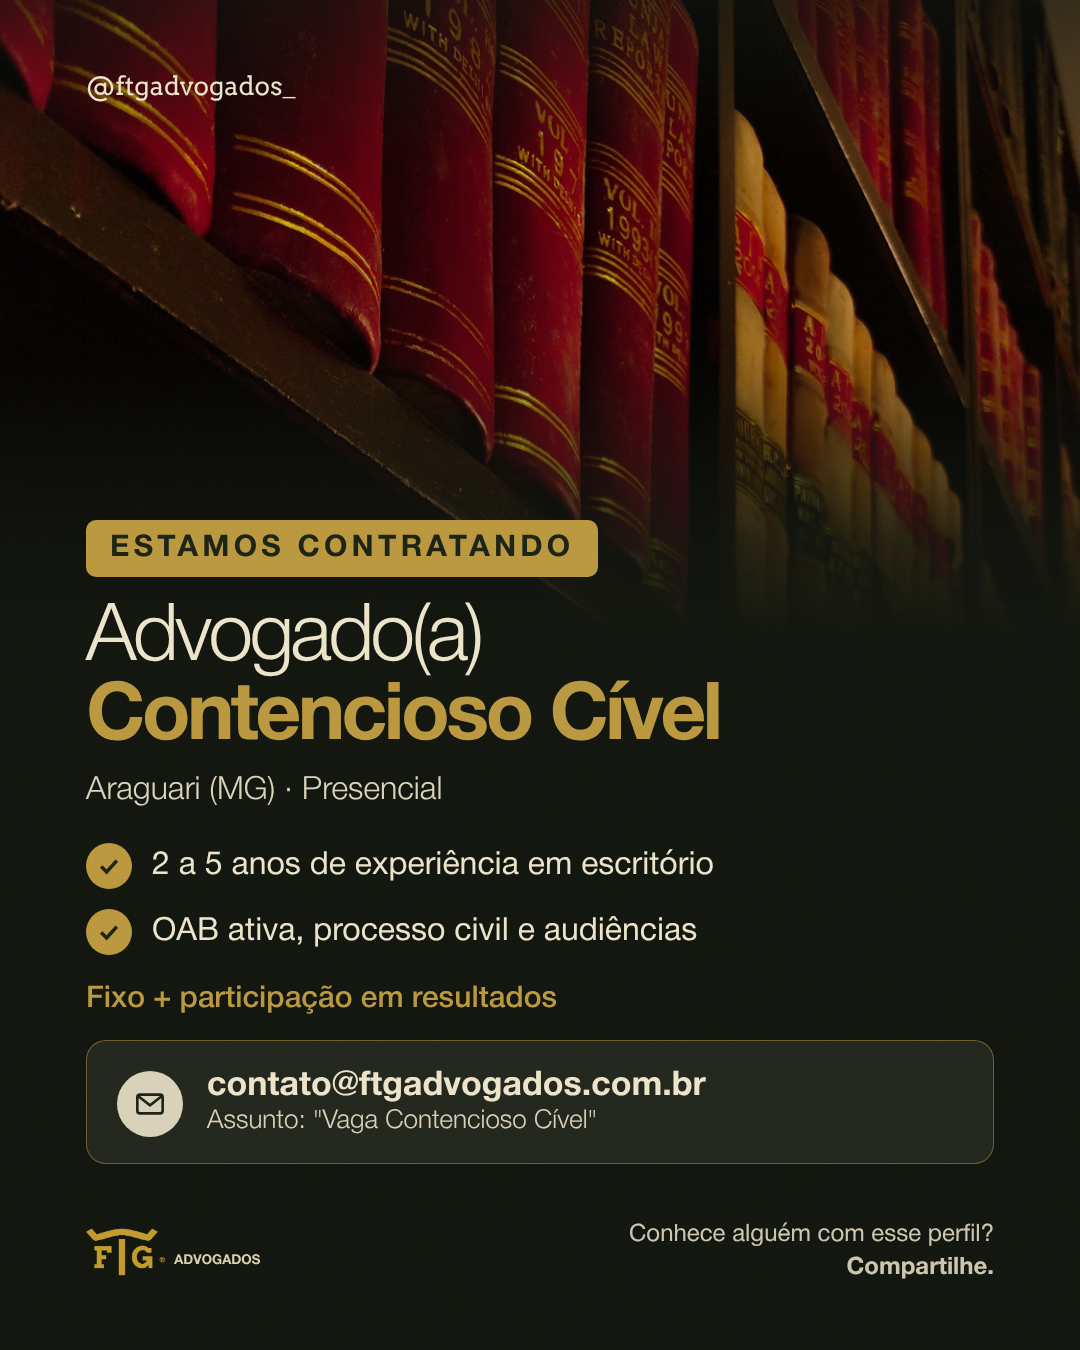
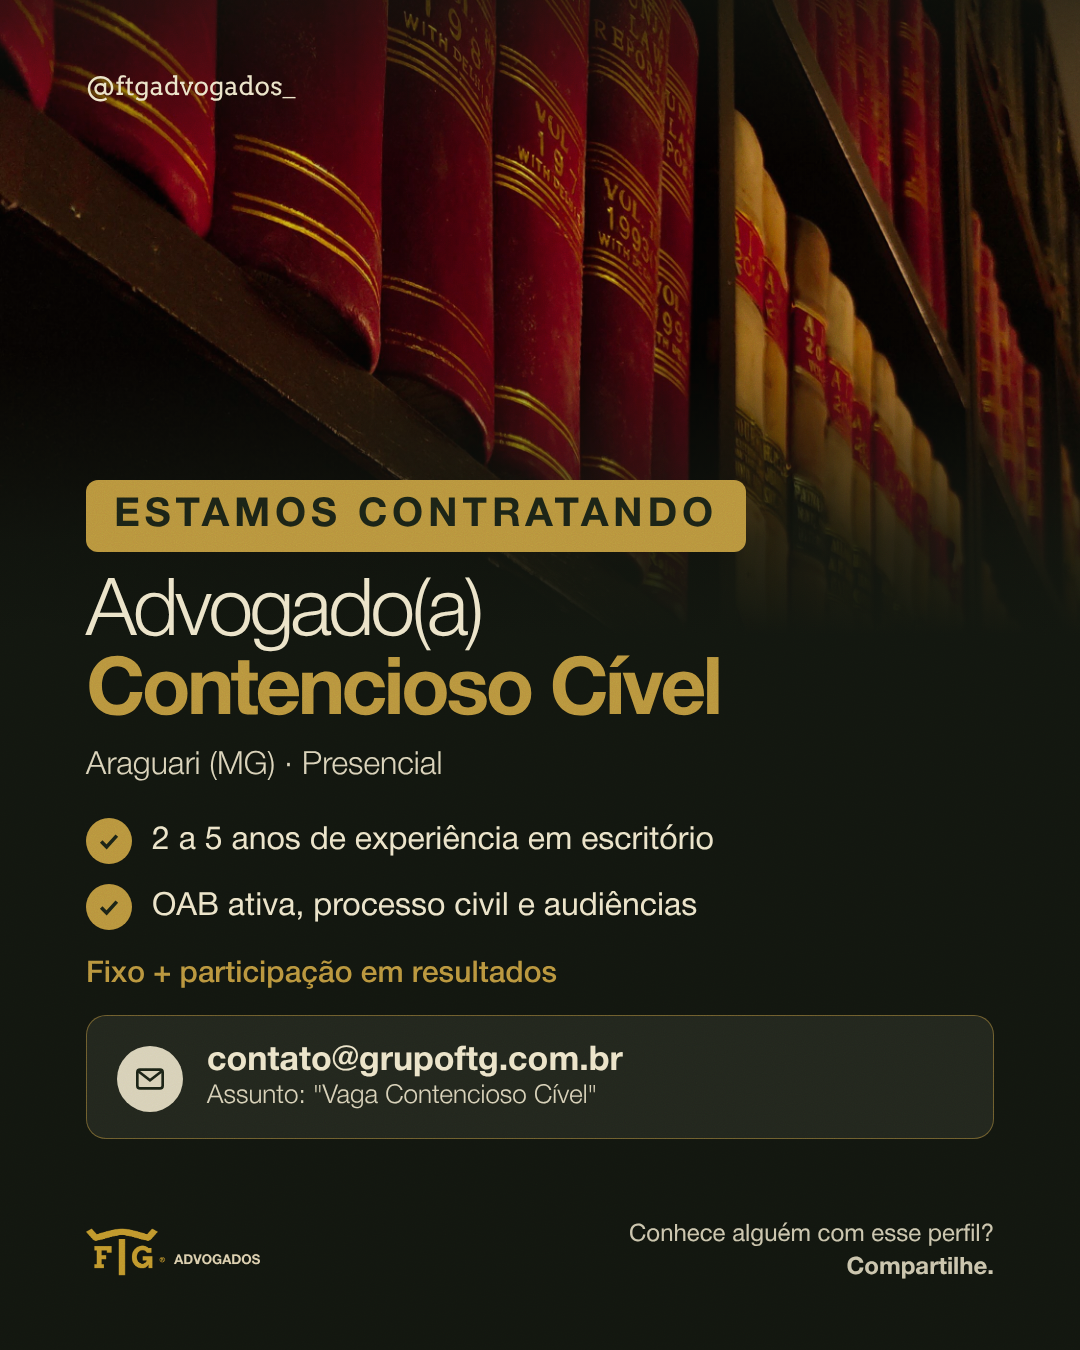
Vaga 24/11: e-mail contato@grupoftg.com.br e Estamos contratando maior
Claude-Session: https://claude.ai/code/session_01P4d7pDXSyhkanGB3aZGg4D

Changed region(s): [[0.0611, 0.3422, 0.7028, 0.84]]

diff --git a/docs/gorayeb/modelos/vaga-contencioso-2611.html b/docs/gorayeb/modelos/vaga-contencioso-2611.html
@@ -20,8 +20,8 @@
  display:flex;align-items:center;justify-content:center;text-align:center;font:700 21px/1.2 HN;letter-spacing:.12em;text-transform:uppercase;color:#b8943d;transform:rotate(-8deg)}
 .selo::before{content:"";position:absolute;inset:9px;border-radius:50%;border:1.5px dashed rgba(184,148,61,.7)}
 .st .selo{top:136px;width:190px;height:190px;font-size:23px}
-.bloco{position:absolute;left:86px;right:86px;top:520px;z-index:3}
-.st .bloco{top:560px}
+.bloco{position:absolute;left:86px;right:86px;top:480px;z-index:3}
+.st .bloco{top:520px}
 h1{font:300 80px/1.0 HN;letter-spacing:-.045em;margin-top:22px}
 h1 b{display:block;font-weight:700;color:#b8943d}
 .st h1{font-size:92px}
@@ -38,7 +38,7 @@ h1 b{display:block;font-weight:700;color:#b8943d}
 .mail span{display:block;font:300 26px HN;margin-top:4px;opacity:.9}
 .st .mail b{font-size:38px}.st .mail span{font-size:29px}
 .pe{position:absolute;left:86px;right:86px;bottom:66px;display:flex;justify-content:space-between;align-items:center;z-index:3}
-.st .pe{bottom:150px}
+.st .pe{bottom:130px}
 .pe img{height:58px}
 .pe span{font:400 24px/1.35 HN;opacity:.85;text-align:right}
 
@@ -46,8 +46,8 @@ h1 b{display:block;font-weight:700;color:#b8943d}
 .btit{font:700 22px HN;letter-spacing:.16em;text-transform:uppercase;color:#b8943d;margin-top:40px}
 .remate{font:300 31px HN;margin-top:28px}
 .req.of i{background:transparent;border:2px solid #b8943d}
-.bloco > .tag{font-size:30px;padding:14px 24px;border-radius:10px;letter-spacing:.14em}
-.st .bloco > .tag{font-size:34px;padding:16px 26px}
+.bloco > .tag{font-size:40px;padding:16px 28px;border-radius:12px;letter-spacing:.12em}
+.st .bloco > .tag{font-size:46px;padding:18px 30px}
 </style></head><body>
 <div class="s" id="feed"><img class="foto" src="file:///home/user/calendario/docs/gorayeb/img/estante-livros-juridicos.jpg"><div class="veu"></div>
  <div class="arroba">@ftgadvogados_</div>
@@ -59,7 +59,7 @@ h1 b{display:block;font-weight:700;color:#b8943d}
    <div class="req"><i><svg width="24" height="24" viewBox="0 0 20 20"><path d="M3.5 10.5 L8 15 L16.5 5.5" fill="none" stroke="#1b2316" stroke-width="3"/></svg></i>OAB ativa, processo civil e audiências</div>
   </div>
   <p class="remun">Fixo + participação em resultados</p>
-  <div class="mail"><span class="ic"><svg width="32" height="32" viewBox="0 0 24 24"><rect x="2.5" y="5" width="19" height="14" rx="2" fill="none" stroke="#1b2316" stroke-width="2"/><path d="M3 6 L12 13 L21 6" fill="none" stroke="#1b2316" stroke-width="2"/></svg></span><div><b>contato@ftgadvogados.com.br</b><span>Assunto: "Vaga Contencioso Cível"</span></div></div>
+  <div class="mail"><span class="ic"><svg width="32" height="32" viewBox="0 0 24 24"><rect x="2.5" y="5" width="19" height="14" rx="2" fill="none" stroke="#1b2316" stroke-width="2"/><path d="M3 6 L12 13 L21 6" fill="none" stroke="#1b2316" stroke-width="2"/></svg></span><div><b>contato@grupoftg.com.br</b><span>Assunto: "Vaga Contencioso Cível"</span></div></div>
  </div>
  <div class="pe"><img src="file:///home/user/calendario/docs/gorayeb/assets/logo-horizontal-claro.png"><span>Conhece alguém com esse perfil?<br><b>Compartilhe.</b></span></div>
 </div>
@@ -82,7 +82,7 @@ h1 b{display:block;font-weight:700;color:#b8943d}
    <div class="req of"><i><svg width="22" height="22" viewBox="0 0 20 20"><path d="M4 10 H15 M11 6 L15 10 L11 14" fill="none" stroke="#b8943d" stroke-width="2.6"/></svg></i>Desenvolvimento lado a lado com os sócios</div>
   </div>
   <p class="remate">Araguari, a 30 min de Uberlândia.</p>
-  <div class="mail"><span class="ic"><svg width="32" height="32" viewBox="0 0 24 24"><rect x="2.5" y="5" width="19" height="14" rx="2" fill="none" stroke="#1b2316" stroke-width="2"/><path d="M3 6 L12 13 L21 6" fill="none" stroke="#1b2316" stroke-width="2"/></svg></span><div><b>contato@ftgadvogados.com.br</b><span>Assunto: "Vaga Contencioso Cível"</span></div></div>
+  <div class="mail"><span class="ic"><svg width="32" height="32" viewBox="0 0 24 24"><rect x="2.5" y="5" width="19" height="14" rx="2" fill="none" stroke="#1b2316" stroke-width="2"/><path d="M3 6 L12 13 L21 6" fill="none" stroke="#1b2316" stroke-width="2"/></svg></span><div><b>contato@grupoftg.com.br</b><span>Assunto: "Vaga Contencioso Cível"</span></div></div>
  </div>
  <div class="pe"><img src="file:///home/user/calendario/docs/gorayeb/assets/logo-horizontal-claro.png"><span>Conhece alguém com esse perfil?<br><b>Compartilhe.</b></span></div>
 </div>

diff --git a/docs/gorayeb/diario.md b/docs/gorayeb/diario.md
@@ -1571,3 +1571,4 @@ Pendências para a Dra. Elisa: no 30/11, o marco de janeiro de 2023 dos prazos e
 - Revisão da vaga aplicada: entrou a foto do escritório e o stories ganhou os blocos com o texto dela. O Presencial ficou, porque está no texto da Dra. Elisa e a revisão só tinha olhado as legendas.
 - Victor preferiu a foto da estante de livros à do escritório (24/11). Ela voltou, e a escolha dele vale por cima da regra de foto do escritório pra vaga.
 - Pedido da Dra. Elisa: saiu o selo Plano de carreira do canto, e o Estamos contratando ficou maior.
+- O e-mail da vaga agora é contato@grupoftg.com.br, na arte e nas duas legendas, a pedido do Victor. O Estamos contratando ficou ainda maior.
